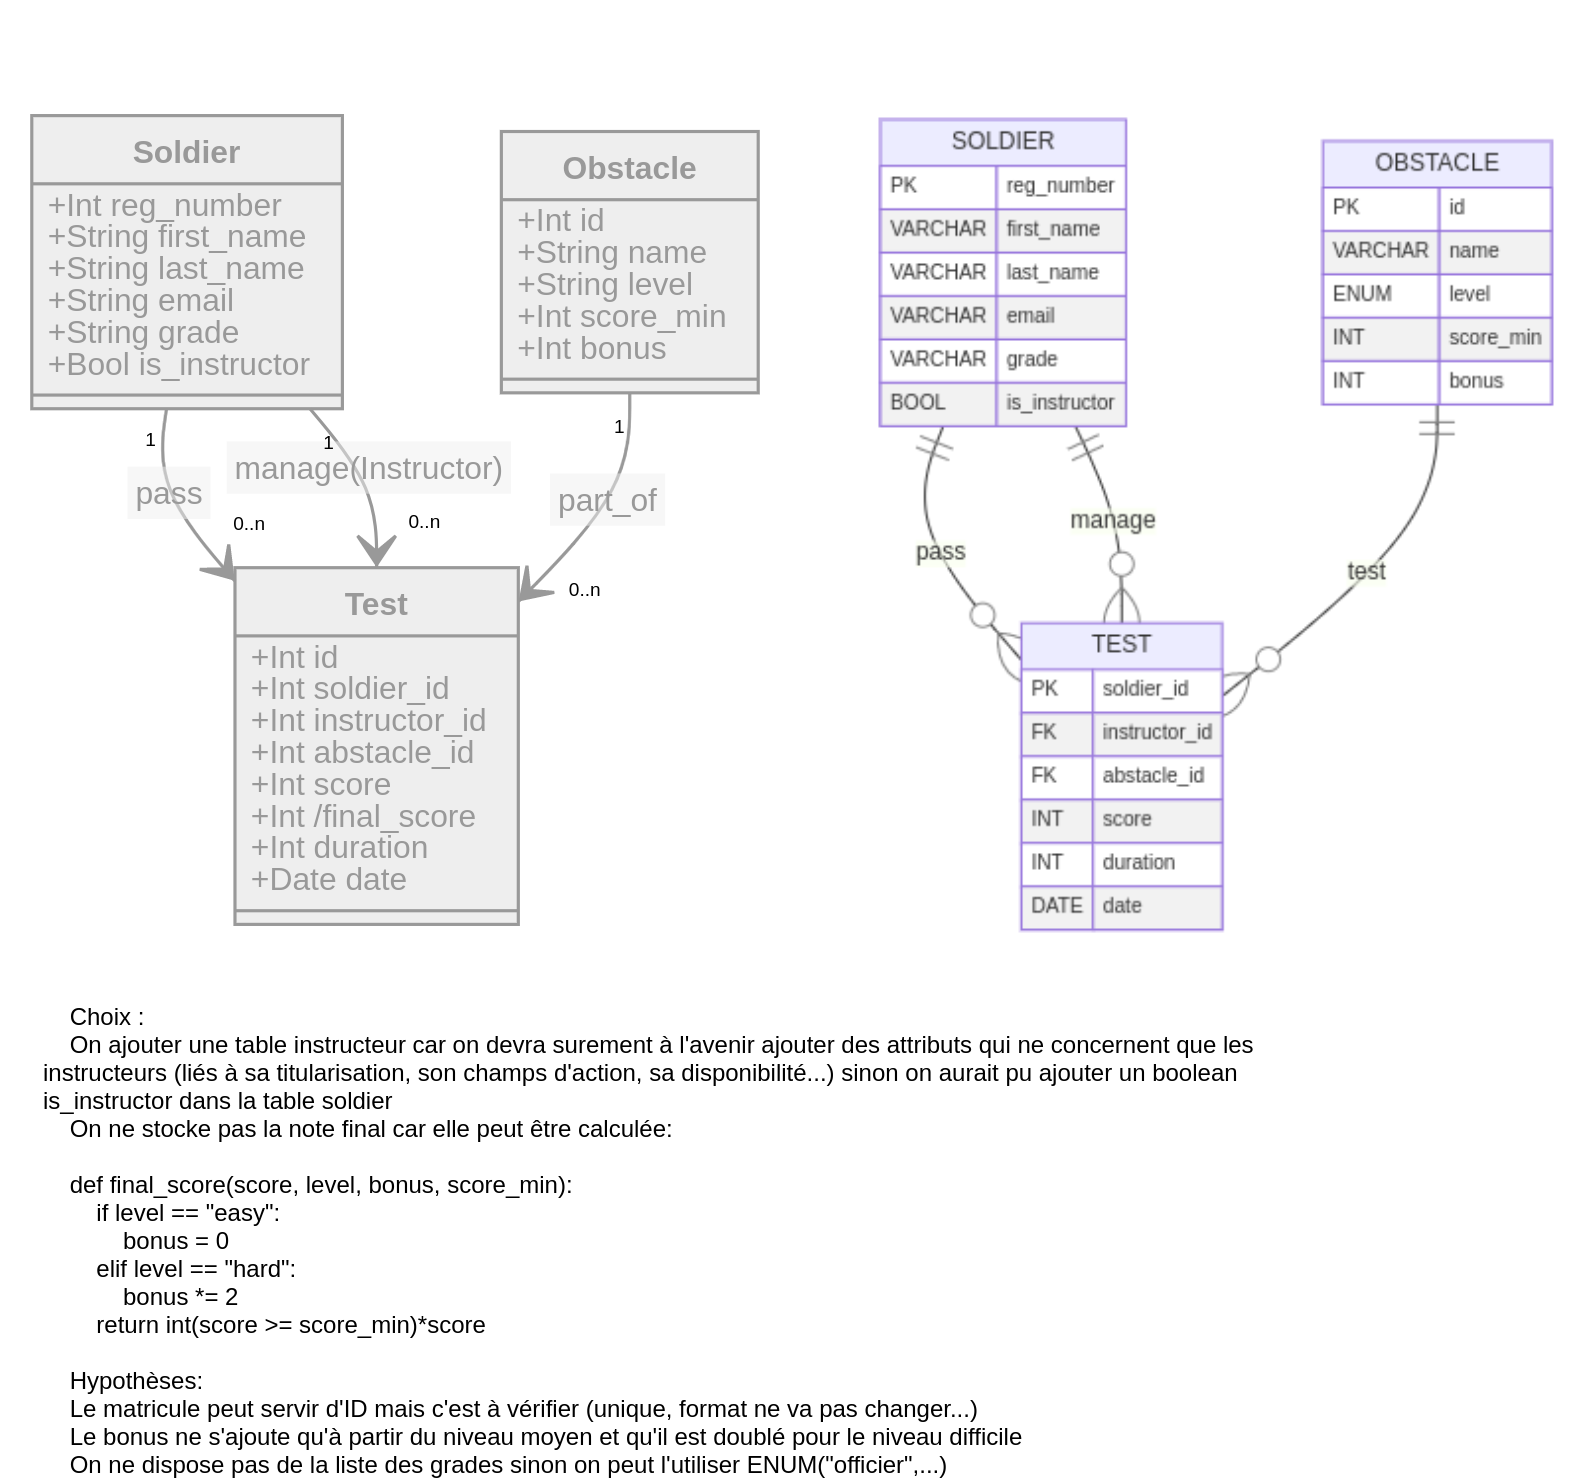
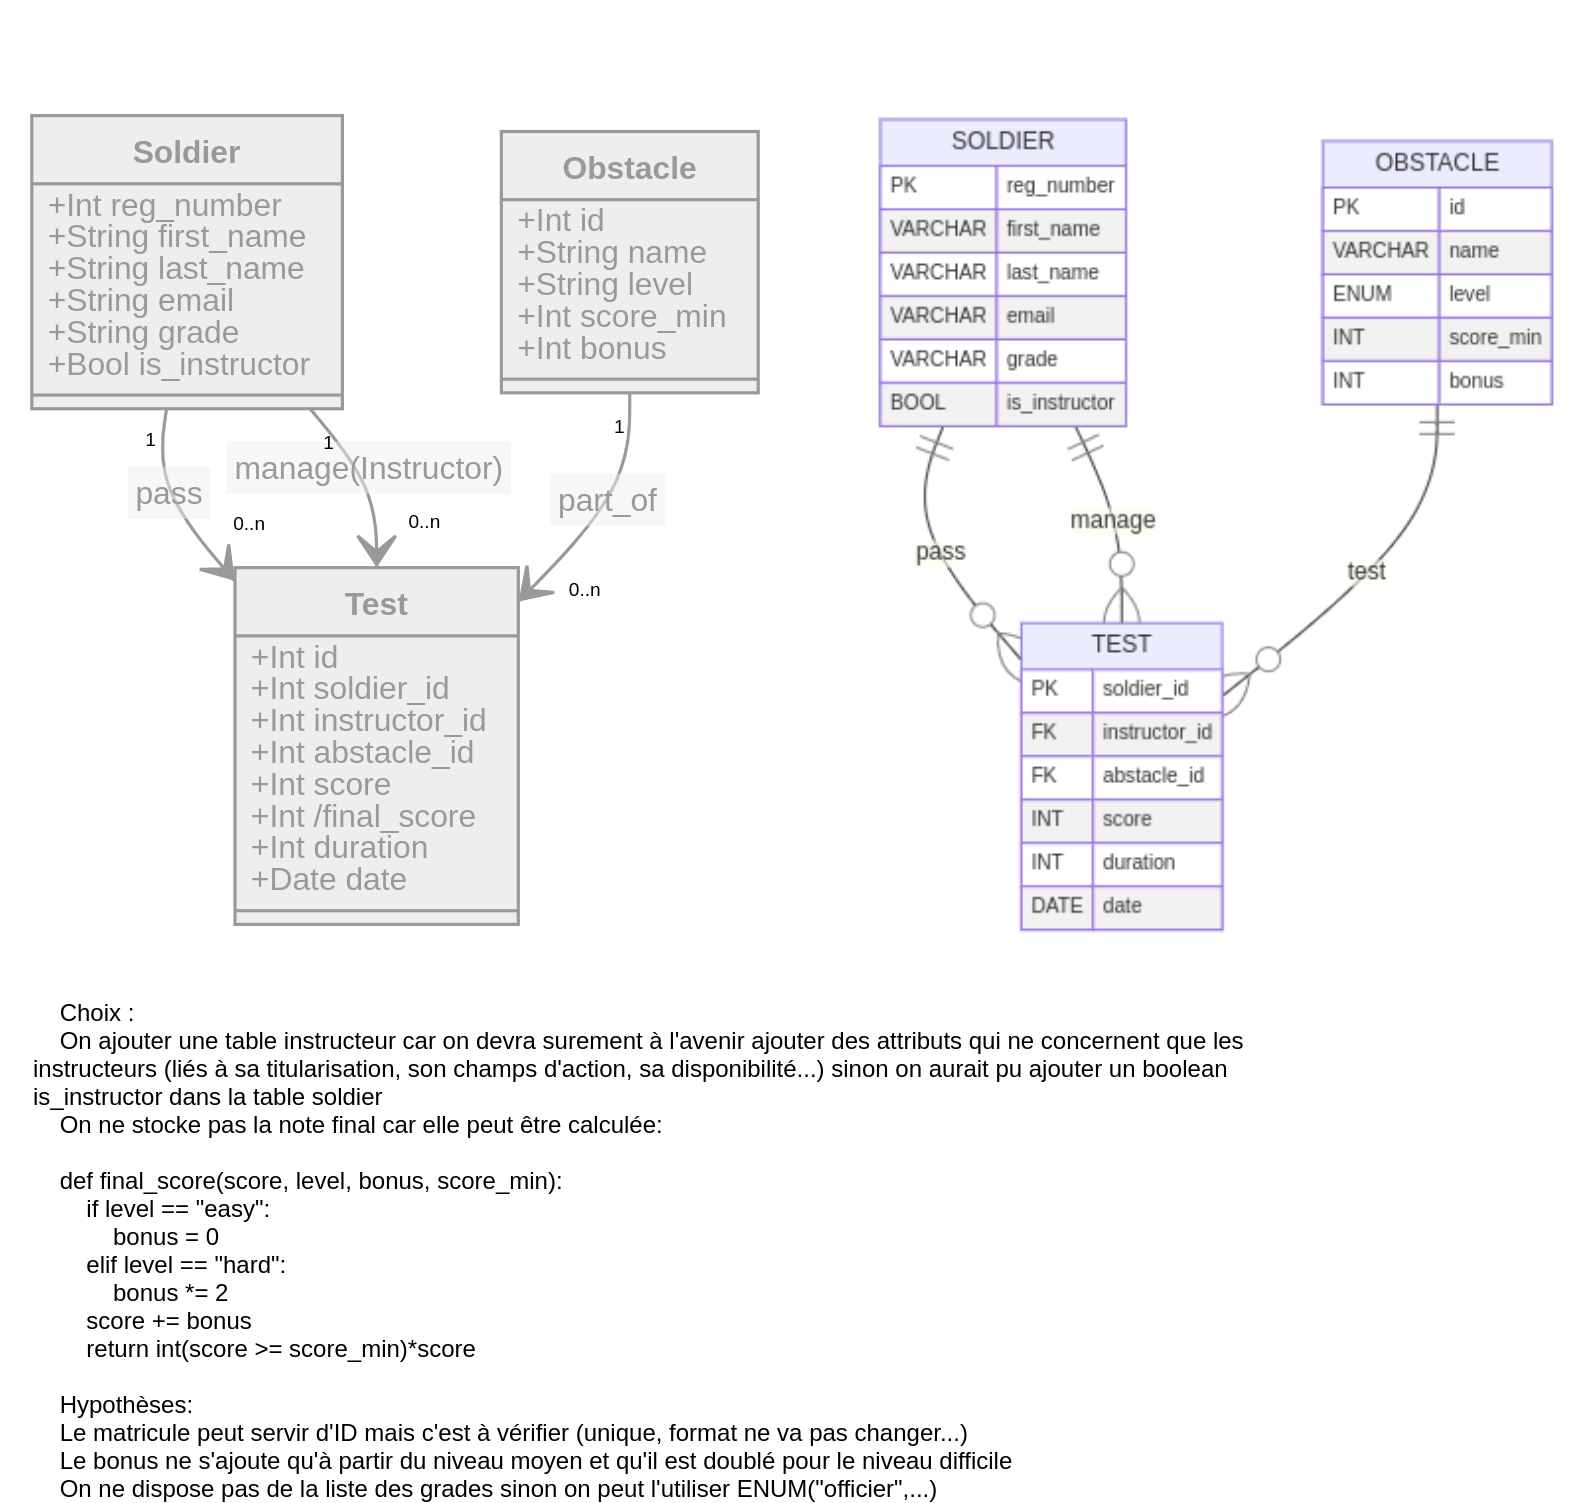
correction hypotheses des diag et ajout du score final

diff --git a/main.py b/main.py
@@ -66,6 +66,14 @@ def reset(db_name = None):
     print(f"Database {db_name} has been reseted")
     conn.close()
 
+def get_final_score(score, level, bonus, score_min):
+    if level == "easy":
+        bonus = 0
+    elif level == "hard":
+        bonus *= 2
+    score += bonus
+    return int(score >= score_min) * score
+
 
 if __name__ == "__main__":
 
@@ -91,7 +99,8 @@ if __name__ == "__main__":
         db.execute("""
             CREATE TABLE obstacle(
                 id INT NOT NULL AUTO_INCREMENT PRIMARY KEY,
-                name VARCHAR(255) NOT NULL, level VARCHAR(20),
+                name VARCHAR(255) NOT NULL,
+                level VARCHAR(20),
                 score_mini INT,
                 bonus INT)
         """)
@@ -153,24 +162,28 @@ if __name__ == "__main__":
         SELECT
             CONCAT('[',s.reg_number,'] ', s.first_name, ' ', s.last_name),
             CONCAT('[',i.reg_number,'] ', i.first_name, ' ', i.last_name),
-            o.name, t.score, t.duration, t.date_test
+            o.name, o.level, o.bonus, o.score_mini, t.score, t.duration, t.date_test
         FROM test as t
         INNER JOIN soldier AS s ON t.soldier_id = s.reg_number
         LEFT JOIN (SELECT * FROM soldier WHERE is_instructor = 1) AS i ON t.instructor_id = i.reg_number
         LEFT JOIN obstacle AS o ON t.obstacle_id = o.id
         """
 
+
         print("TEST WITH JOINTURES")
 
         def print_tests():
             x = PrettyTable()
-            x.field_names = ["Soldat", "Instructeur", "Obstacle", "Score", "Temps", "Date"]
+            x.field_names = ["Soldat", "Instructeur", "Obstacle", "Level", "Bonus", "Score Mini", "Score", "Temps", "Date", "SCORE FINAL"]
             for test in db.query(query):
+                
                 # print(test)
-                x.add_row(test)
+                final_score = get_final_score(test[6], test[3], test[4], test[5]) or "ECHEC"
+                x.add_row(test + (final_score, ))
             print(x)
         
         print_tests()
+        
         
 
 
